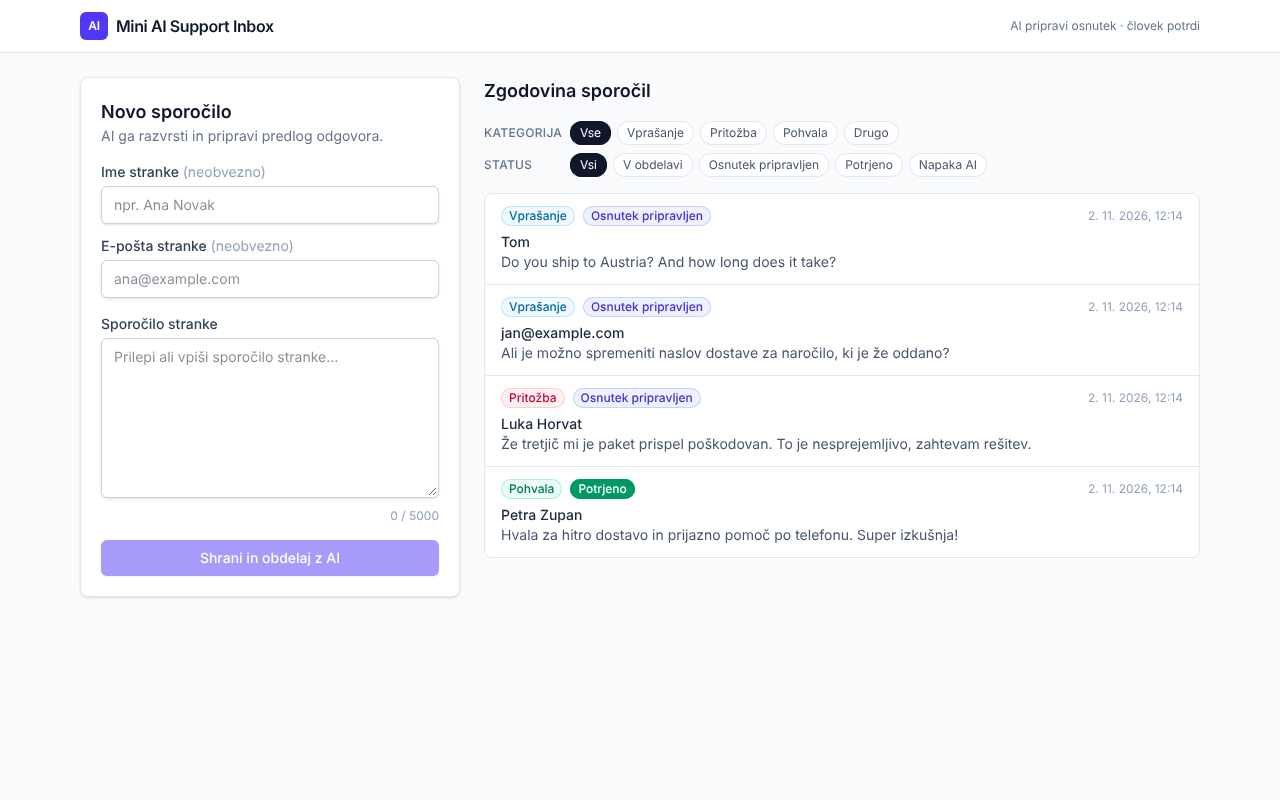
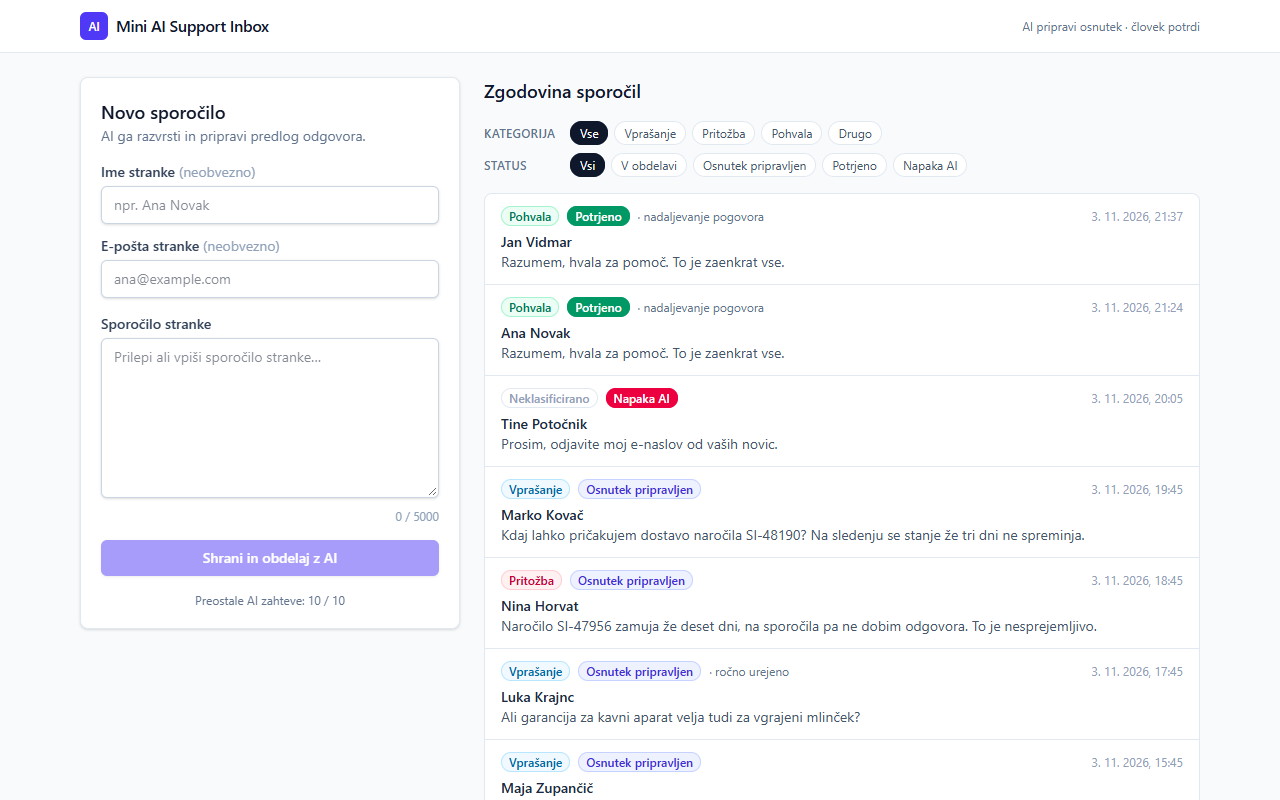
docs: rewrite the README for the Supabase setup
Covers the setup, where each connection setting goes, the data model and the
new screenshots.

diff --git a/README.md b/README.md
@@ -2,55 +2,88 @@
 
 Spletna aplikacija za obdelavo sporočil strank. **AI razvrsti sporočilo in pripravi predlog odgovora, človek ga uredi in potrdi.**
 
-**Demo:** _<povezava do Vercel deploya>_ · Basic Auth podatki so v e-pošti.
-
 ![Inbox](docs/screenshot-inbox.png)
 
-## Funkcionalnosti
+## Kaj zna
 
 - **Vnos sporočila stranke** (ime, e-pošta, besedilo) z validacijo na clientu in serverju
 - **AI klasifikacija**: `vprašanje | pritožba | pohvala | drugo` + zanesljivost (structured output, JSON schema)
 - **Predlog odgovora z LLM**: ton glede na kategorijo, odgovor v jeziku stranke, brez izmišljenih dejstev (manjkajoči podatki ostanejo kot `[placeholder]`)
-- **Shranjevanje** sporočil in odgovorov v PostgreSQL (Supabase)
-- **Zgodovina** s filtri po kategoriji in statusu
 - **Urejanje in potrditev odgovora**: po potrditvi je odgovor zaklenjen, original AI osnutka ostane shranjen
-- Ročni popravek kategorije (ponovno generiranje upošteva človekovo odločitev)
-- Ponovno generiranje osnutka ali ponovitev obdelave, če AI pade
+- **Pogovori**: stranka lahko odgovori, AI pa pripravi naslednji osnutek s kontekstom prejšnjih sporočil
+- **Zgodovina sprememb**: vsaka sprememba je zapisana v bazi in vidna na strani sporočila
+- **Filtri** po kategoriji in statusu, ročni popravek kategorije, ponovno generiranje osnutka
+- **Zaščita pred preveč zahtevami**: števec preostalih AI zahtev, zaklenjeni gumbi med obdelavo
 - **Sentry**: produkcijske napake (client + server), sledenje LLM klicem, brez osebnih podatkov
 
 ![Podrobnosti](docs/screenshot-detail.png)
 
-## Hiter zagon (lokalno)
+## Hiter zagon
 
-Potrebuješ Node.js 22+ in PostgreSQL (lokalni ali Supabase).
+Potrebuješ Node.js 22+ in brezplačen projekt na [Supabase](https://supabase.com).
 
-```bash
-npm install
-cp .env.example .env.local        # DATABASE_URL + (neobvezno) ANTHROPIC_API_KEY
-docker compose up -d              # lokalni Postgres (ali uporabi Supabase URL)
-npm run db:migrate                # ustvari tabele
-npm run dev                       # http://localhost:3000
+1. Nameščanje in nastavitve:
+   ```bash
+   npm install
+   cp .env.example .env.local
+   ```
+2. V Supabase odpri **SQL Editor**, prilepi celotno datoteko [`supabase/setup.sql`](supabase/setup.sql) in klikni **Run**. Ustvari tabele, vklopi zaščito RLS in naloži demo tickete.
+3. V `.env.local` nastavi `DATABASE_URL` (glej spodaj).
+4. Zaženi aplikacijo in odpri <http://localhost:3000>:
+   ```bash
+   npm run dev
+   ```
+
+Brez AI ključa aplikacija uporabi **mock provider** (pravila po ključnih besedah), zato cel tok deluje tudi brez AI računa. Z `GROQ_API_KEY`, `ANTHROPIC_API_KEY` ali `OPENAI_API_KEY` se samodejno vklopi pravi model. [Groq](https://console.groq.com) ima brezplačen paket, primeren za preizkus.
+
+### Povezava s Supabase
+
+Vse nastavitve so v eni vrstici v `.env.local`, ki je git ne shranjuje:
+
+```
+DATABASE_URL=postgresql://postgres.PROJECT-REF:GESLO@HOST:6543/postgres?sslmode=require
 ```
 
-**Brez Dockerja:** namesto `docker compose up -d` in `npm run db:migrate` v ločenem terminalu zaženi `npm run db:local` (pravi PostgreSQL 16 iz npm paketa `embedded-postgres`). Tabele ustvari sam, podatke pa hrani v `.pgdata/`.
+Vrednosti najdeš v Supabase pod **Connect → Direct → Transaction pooler**:
 
-Brez API ključa aplikacija uporabi **mock LLM provider** (deterministična pravila po ključnih besedah). Tako cel tok deluje offline, v UI pa piše `mock/mock-v1`. Z `ANTHROPIC_API_KEY` (ali `OPENAI_API_KEY`, `GROQ_API_KEY`) se samodejno vklopi pravi model. [Groq](https://console.groq.com) ima brezplačen paket, primeren za preizkus.
+| Del                | Vrednost                                                                         |
+| ------------------ | -------------------------------------------------------------------------------- |
+| Uporabnik          | `postgres.PROJECT-REF`                                                           |
+| Geslo              | geslo baze, **ne** API ključ. Posebne znake zapiši URL-kodirano (`$` kot `%24`). |
+| Host               | se konča s `pooler.supabase.com`                                                 |
+| Port               | `6543`. Neposredna povezava (`db.…supabase.co:5432`) je privzeto samo IPv6.      |
+| `?sslmode=require` | dodaj sam na konec, da povezava brez šifriranja ni mogoča                        |
 
-V razvojnem načinu ima obrazec še **testne scenarije** (`src/lib/scenarios.ts`): en klik ustvari izmišljeno stranko in njeno sporočilo, ga pošlje skozi običajen tok in odpre pripravljen odgovor. Ko odgovor potrdiš, z gumbom _Generiraj odgovor stranke_ stranka odpiše in AI pripravi naslednji odgovor, dokler se scenarij ne konča. Med scenariji je tudi poskus manipulacije AI (prompt injection).
+Aplikacija se z bazo povezuje neposredno, zato ključev Supabase (Publishable, Secret) in paketa `@supabase/supabase-js` ne potrebuje.
+
+### Ukazi
 
 | Ukaz                                 | Opis                                                                              |
 | ------------------------------------ | --------------------------------------------------------------------------------- |
-| `npm test`                           | Unit + integracijski testi (Vitest, servis teče proti pravemu Postgresu v PGlite) |
+| `npm run dev`                        | razvojni strežnik                                                                 |
+| `npm test`                           | testi (Vitest, servis teče proti pravemu Postgresu v PGlite)                      |
 | `npm run typecheck` / `npm run lint` | TypeScript strict / ESLint                                                        |
+| `npm run format`                     | Prettier                                                                          |
 | `npm run db:generate`                | nova migracija po spremembi sheme                                                 |
 | `npm run db:migrate`                 | aplicira migracije iz `drizzle/`                                                  |
-| `npm run db:local`                   | Postgres brez Dockerja, tabele ustvari sam, podatki v `.pgdata/`                  |
+| `npm run db:supabase-sql`            | po novi migraciji ali spremembi demo podatkov na novo zgradi `supabase/setup.sql` |
+| `npm run db:studio`                  | Drizzle Studio za pregled podatkov                                                |
+
+V razvojnem načinu ima obrazec še **testne scenarije** ([`src/lib/scenarios.ts`](src/lib/scenarios.ts)): en klik ustvari izmišljeno stranko in njeno sporočilo. Ko odgovor potrdiš, z gumbom _Generiraj odgovor stranke_ stranka odpiše. Med scenariji je tudi poskus manipulacije AI (prompt injection).
+
+### Demo podatki
+
+`supabase/setup.sql` doda 8 izmišljenih pogovorov. Dodaš jih lahko tudi kasneje s [`supabase/seed.sql`](supabase/seed.sql), pred uporabo s pravimi strankami pa jih odstrani:
+
+```sql
+delete from messages where id::text like '10000000-%';
+```
 
 ### Deploy (Vercel + Supabase + Sentry)
 
-1. **Supabase**: ustvari projekt. Pod _Connect_ kopiraj **Transaction pooler** URL (port 6543) za `DATABASE_URL` in **Session pooler/Direct** URL za `DATABASE_MIGRATION_URL`. Nato lokalno zaženi `npm run db:migrate`.
+1. **Supabase**: pripravi bazo kot zgoraj. Za bazo brez demo podatkov namesto `setup.sql` zaženi `npm run db:migrate`, z **Session pooler** URL-jem (port 5432) v `DATABASE_MIGRATION_URL`.
 2. **Sentry**: ustvari Next.js projekt in kopiraj DSN (`NEXT_PUBLIC_SENTRY_DSN`). Za source mape dodaj še `SENTRY_ORG`, `SENTRY_PROJECT` in `SENTRY_AUTH_TOKEN`.
-3. **Vercel**: uvozi GitHub repozitorij in nastavi env spremenljivke iz `.env.example` (`DATABASE_URL`, `ANTHROPIC_API_KEY`, `BASIC_AUTH_USER`, `BASIC_AUTH_PASSWORD`, Sentry). Nato deploy.
+3. **Vercel**: uvozi GitHub repozitorij in nastavi env spremenljivke iz `.env.example`: `DATABASE_URL`, ključ AI ponudnika, Sentry in nujno `BASIC_AUTH_USER` ter `BASIC_AUTH_PASSWORD`, sicer je aplikacija javno dostopna.
 4. Preveri: `GET /api/health` vrne `{"status":"ok","database":"ok"}`.
 
 ## Arhitektura
@@ -94,13 +127,21 @@ stateDiagram-v2
   approved --> [*]
 ```
 
-**Podatkovni model:** `messages` (besedilo, kategorija, zanesljivost, vir kategorije `ai|human`, status, napaka) in `replies` (1:1, `ai_draft` = original LLM, `body` = trenutna verzija, `model`, `prompt_version`, `approved_at`).
+**Podatkovni model:**
+
+| Tabela           | Vsebina                                                                                        |
+| ---------------- | ---------------------------------------------------------------------------------------------- |
+| `messages`       | besedilo, kategorija, zanesljivost, vir kategorije `ai\|human`, status, napaka, `thread_id`    |
+| `replies`        | 1:1 s sporočilom; `ai_draft` = original LLM, `body` = trenutna verzija, `model`, `approved_at` |
+| `message_events` | zgodovina sprememb: `type`, `actor` (`customer\|ai\|agent`), `old_value`, `new_value`          |
+
+Vrstica v `message_events` se zapiše v isti transakciji kot sprememba, zato zgodovina ne more izpustiti spremembe ali zabeležiti neuspele. Ob brisanju sporočila se izbriše tudi njegova zgodovina. Agenti še nimajo svojih računov, zato je vsak človek zabeležen kot `agent`.
 
 ### Ključne odločitve
 
 - **Sporočilo se shrani pred klicem LLM-ja.** Če AI pade (timeout, 429, neveljaven output), podatki niso izgubljeni: status je `failed`, uporabnik vidi razlog in gumb »Ponovi«. API vseeno vrne `201`, ker je bil vir ustvarjen.
 - **Structured outputs + ponovna zod validacija.** Klasifikacija je omejena na JSON shemo z enumom, rezultat se še enkrat preveri. Modelu ne zaupamo na slepo.
-- **Dva ločena LLM klica** (klasifikacija → osnutek): osnutek dobi kategorijo kot kontekst (ton), klasifikacija pa ostane poceni in hitra (`claude-haiku-5-5`, `effort: low`).
+- **Dva ločena LLM klica** (klasifikacija → osnutek): osnutek dobi kategorijo kot kontekst (ton), klasifikacija pa ostane poceni in hitra.
 - **Človek v zanki:** AI nikoli ne pošlje odgovora sam. Ročni popravek kategorije ima prednost pri ponovnem generiranju.
 - **Original AI osnutka se hrani** (`ai_draft` ≠ `body`), tako se da meriti, koliko ljudje popravljajo AI. To je osnova za evals in izboljšave promptov (`prompt_version`).
 - **Konsistenca:** prehodi stanj so pogojni UPDATE-i (`WHERE status = 'draft_ready'`), zato dvojna potrditev ali urejanje po potrditvi ni možno niti ob sočasnih zahtevah (`409 Conflict`). Sporočilo, ki obvisi v `processing` (npr. ubit serverless proces), se po 2 min lahko ponovno obdela.
@@ -118,6 +159,7 @@ stateDiagram-v2
 | `POST`  | `/api/messages/:id/approve`              | potrditev odgovora                                               |
 | `POST`  | `/api/messages/:id/process`              | ponovi obdelavo / ponovno generiraj                              |
 | `POST`  | `/api/messages/:id/customer-reply`       | `{ body }`: odgovor stranke, nadaljuje pogovor                   |
+| `GET`   | `/api/ai-quota`                          | preostale AI zahteve tega odjemalca                              |
 | `GET`   | `/api/health`                            | stanje aplikacije in baze                                        |
 
 Napake imajo enotno obliko `{ "error": { "code": "...", "message": "..." } }` in ustrezne kode `400/403/404/409/413/429/500`.
@@ -129,28 +171,29 @@ Napake imajo enotno obliko `{ "error": { "code": "...", "message": "..." } }` in
 - **XSS**: vsebina strank se izpisuje samo kot tekst (React escaping, brez `dangerouslySetInnerHTML`)
 - **Prompt injection**: besedilo stranke je med ločili `<customer_message>`, ki jih stranka ne more zapreti. Model dobi navodilo, naj ga obravnava kot podatke, output je omejen na shemo, človek vedno potrdi.
 - **Skrivnosti** samo na serverju (`server-only`, env validacija z zod)
-- **Rate limit** na AI endpointih (privzeto 10/min/IP, `RATE_LIMIT_AI_PER_MINUTE`) z `Retry-After`; UI prek `GET /api/ai-quota` pokaže števec preostalih zahtev in zaklene AI gumbe, ko jih zmanjka
+- **Rate limit** na AI endpointih (privzeto 10/min/IP, `RATE_LIMIT_AI_PER_MINUTE`) z `Retry-After`
 - **CSRF**: preverjanje `Origin` pri mutacijah + JSON telo (CORS preflight)
 - **Dostop**: HTTP Basic Auth (Next.js `proxy.ts`, primerjava v konstantnem času) za demo
-- **Supabase RLS** vklopljen na obeh tabelah (brez politik): javni Data API nima dostopa, aplikacija dostopa kot lastnik tabel
+- **Supabase RLS** vklopljen na vseh tabelah (brez politik): javni Data API nima dostopa, aplikacija dostopa kot lastnik tabel
 - **Security headerji** (`X-Frame-Options`, `nosniff`, `Referrer-Policy`, osnovni CSP)
-- **Zasebnost v Sentryju**: brez teles zahtev, piškotkov, IP-jev, DB parametrov in LLM promptov/odgovorov
+- **Zasebnost v logih in Sentryju**: brez teles zahtev, piškotkov, IP-jev, vrednosti SQL poizvedb in LLM promptov/odgovorov
 
 ## Obravnava napak in observability
 
 - Hierarhija napak (`ValidationError`, `NotFoundError`, `ConflictError`, `RateLimitError`, `LLMError` …) → enoten JSON odgovor
 - Napake SDK-jev (timeout, 401, 429, 5xx) se preslikajo v razumljiva sporočila. LLM klici imajo timeout (20 s) in 2 retryja z backoffom (SDK).
 - `error.tsx` / `global-error.tsx` / `not-found.tsx` v UI, napake se pošljejo v Sentry
-- **Sentry**: `instrumentation.ts` (server, `onRequestError`), `instrumentation-client.ts` (browser), tunnel route proti ad-blockerjem, source mapi ob buildu. LLM klici so instrumentirani (`instrumentAnthropicAiClient`): model, latenca in tokeni, brez vsebine.
+- **Sentry**: `instrumentation.ts` (server, `onRequestError`), `instrumentation-client.ts` (browser), tunnel route proti ad-blockerjem, source mapi ob buildu. LLM klici so instrumentirani: model, latenca in tokeni, brez vsebine.
 - Strukturirani JSON logi brez osebnih podatkov (`ai.processed`, `ai.failed` z `messageId`, `stage`, `durationMs`)
 
 ## Testi
 
-`npm test` → 29 testov:
+`npm test` pokrije:
 
-- **Servis** (integracijski, pravi Postgres prek PGlite + produkcijske migracije): celoten tok, AI napaka → `failed` → retry, sledenje urejanju, zaklep po potrditvi, ohranjanje ročne kategorije, obnovitev zastarelega `processing`, filtri
+- **Servis** (integracijski, pravi Postgres prek PGlite + produkcijske migracije): celoten tok, AI napaka → `failed` → retry, pogovori, zgodovina sprememb, zaklep po potrditvi, ohranjanje ročne kategorije, obnovitev zastarelega `processing`, filtri
+- **Supabase setup**: `setup.sql` ustreza migracijam, javna vloga ne vidi ničesar, demo podatki delujejo v aplikaciji
 - **LLM provider**: validacija structured outputa, zavrnitve, preslikava napak, ignoriranje thinking blokov
-- **Prompt injection** zaščita, rate limiter, validacijske sheme
+- **Prompt injection** zaščita, rate limiter, števec zahtev, validacijske sheme, zasebnost logov
 
 ## Uporaba AI orodij pri razvoju
 
@@ -161,15 +204,15 @@ Napake imajo enotno obliko `{ "error": { "code": "...", "message": "..." } }` in
   4. Next.js 16 ima precej novosti (Cache Components, `proxy.ts` namesto middleware). Agent je bral dokumentacijo, ki je priložena paketu (`AGENTS.md`), namesto da bi se zanašal na zastarelo znanje.
 - **`CLAUDE.md`** v repozitoriju opisuje arhitekturna pravila za nadaljnje delo z AI agenti.
 - Moja vloga: odločitve o arhitekturi in obsegu, pregled kode, preverjanje robnih primerov.
-- **V produktu**: Claude Haiku 5.5 (hiter in poceni za klasifikacijo/kratke odgovore), structured outputs, verzioniranje promptov.
+- **V produktu**: structured outputs, verzioniranje promptov, zamenljiv ponudnik (Claude, OpenAI, Groq).
 
 ## Kaj bi še izboljšal
 
 1. **Asinhrona obdelava**: queue (npr. Vercel Queues/Inngest) in streaming osnutka (SSE) namesto sinhronega klica (~2–4 s)
-2. **Avtentikacija in vloge** (Supabase Auth/SSO) + audit log (kdo je urejal/potrdil)
+2. **Avtentikacija in vloge** (Supabase Auth/SSO), da zgodovina sprememb pokaže, kateri agent je urejal/potrdil
 3. **Evals**: zlati nabor sporočil za klasifikacijo v CI, metrika »edit distance« med `ai_draft` in potrjenim odgovorom po verziji prompta
 4. **RAG nad bazo znanja/FAQ**, da osnutki vsebujejo prava dejstva namesto placeholderjev
-5. **Integracija z e-pošto/helpdeskom**: inbound webhook, pošiljanje potrjenega odgovora, niti pogovorov
+5. **Integracija z e-pošto/helpdeskom**: inbound webhook, pošiljanje potrjenega odgovora
 6. **Porazdeljen rate limit** (Redis/Upstash), ker je trenutni per-instance
 7. Paginacija s kursorjem, iskanje (Postgres full-text), prioritizacija/sentiment
 8. Strožji CSP z nonce, Playwright E2E testi v CI, redakcija PII pred pošiljanjem LLM-ju

diff --git a/CLAUDE.md b/CLAUDE.md
@@ -14,6 +14,7 @@ Next.js 16 App Router (Cache Components on), TypeScript strict, Drizzle + Postgr
 - Everything under `src/server` is server-only. `src/lib` must stay importable from the browser.
 - Validate all input with zod schemas from `src/lib/validation.ts`; throw `AppError` subclasses, never raw errors with internals.
 - Persist before calling the LLM; AI failures set `status=failed` with a user-safe message.
+- Every change to a message adds a `message_events` row in the same transaction (see `repository.ts`).
 - Customer text is untrusted: keep it inside `<customer_message>` delimiters (see `prompts.ts`). Never log it or send it to Sentry.
 - Bump `PROMPT_VERSION` when changing prompts.
 
@@ -21,4 +22,4 @@ Next.js 16 App Router (Cache Components on), TypeScript strict, Drizzle + Postgr
 
 - `npm run dev` · `npm test` · `npm run typecheck` · `npm run lint`
 - `npm run db:generate` after schema changes, `npm run db:migrate` to apply.
-- `npm run db:local` runs Postgres without Docker (embedded-postgres on port 5432, applies migrations itself).
+- `npm run db:supabase-sql` after a new migration or a change to `supabase/seed.sql` (a test fails if `supabase/setup.sql` is stale).
